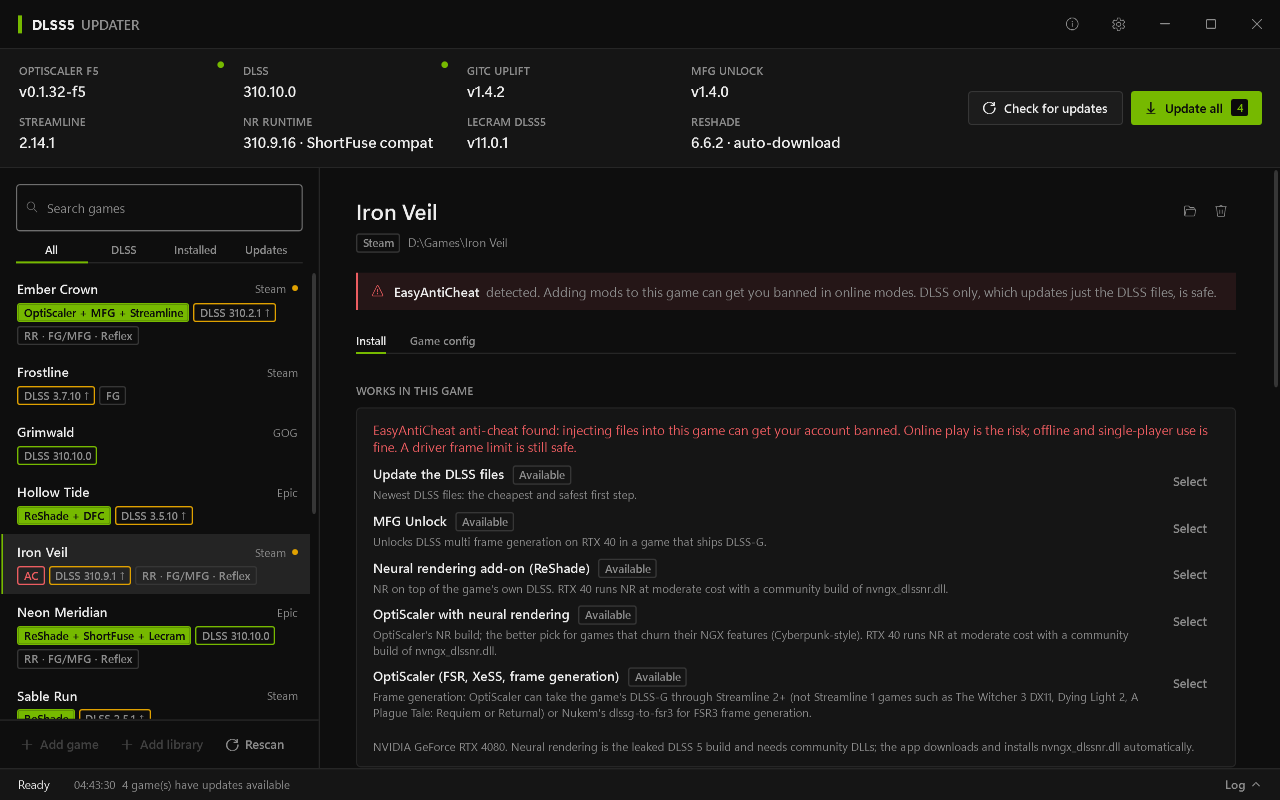
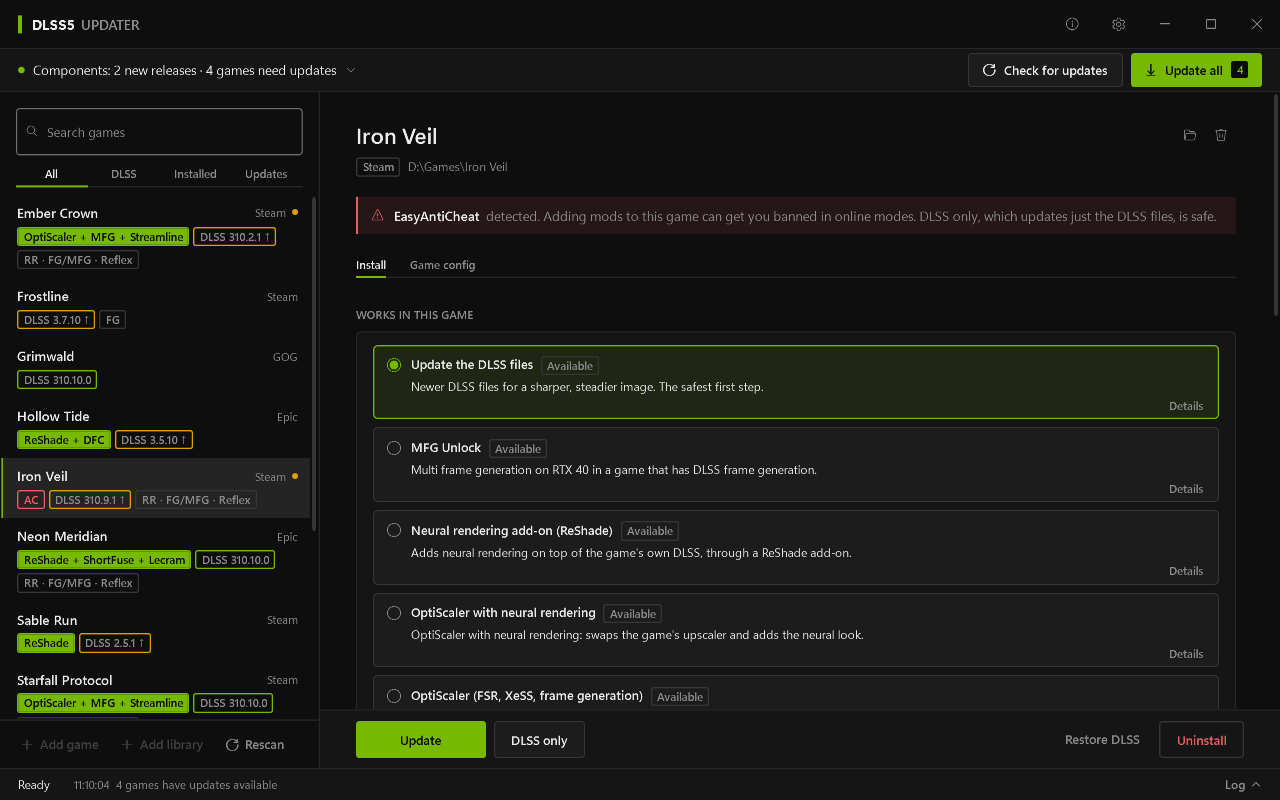
UX: Refresh README screenshots
Re-exported with --demo --screenshots after the UX changes (component
summary strip, option cards, sticky install footer, Settings split).
Alt text and the Settings tab names in the README follow the new UI.

diff --git a/README.md b/README.md
@@ -10,7 +10,7 @@ Formerly called DLSS Updater. Updating keeps your settings: the app moves `%Loca
 
 ## Screenshots
 
-![DLSS5 Updater with the game list on the left and one game selected. The top bar shows the latest version of each component next to Check for updates and Update all. The selected game shows what works in it, with a short reason for each option and a Select button.](docs/images/games.png)
+![DLSS5 Updater with the game list on the left and one game selected. A one-line summary of component updates sits next to Check for updates and Update all. The selected game shows what works in it as cards with a short explanation each, one card picked, and the Update and DLSS only buttons pinned below.](docs/images/games.png)
 
 The game list and one game's components. Badges show what each game has installed, and an arrow marks an outdated DLSS version.
 
@@ -91,7 +91,7 @@ Both versions keep settings and downloads in `%LocalAppData%\DLSS5Updater`, so y
 On a fresh install a short setup opens over the window: a welcome, the default install mode (OptiScaler F5 or OptiScaler-NR, or ReShade + add-ons with one NR add-on), and update and download choices. **Skip** or Esc on any step keeps the defaults; Enter goes to the next step. Nothing is written until you finish. People upgrading from 1.x don't see it, but **Settings → App → Run setup again** opens it any time.
 
 1. Start the app. It scans your game libraries and lists the games it finds. To add a game it missed, use **Add game** (one game folder) or **Add library** (a folder whose subfolders are games) at the bottom of the list.
-2. The files neural rendering needs (`nvngx_dlssnr.dll` and the NR add-ons) are downloaded and installed automatically when an install needs them. To use your own copy instead, import it under **Settings → Local components**. The app keeps them in `%LocalAppData%\DLSS5Updater\components`, several versions side by side, and you can pick a default.
+2. The files neural rendering needs (`nvngx_dlssnr.dll` and the NR add-ons) are downloaded and installed automatically when an install needs them. To use your own copy instead, import it under **Settings → Components**. The app keeps them in `%LocalAppData%\DLSS5Updater\components`, several versions side by side, and you can pick a default.
 3. ReShade is downloaded the first time an install needs it. Pick another build, channel or your own import under **Settings → ReShade add-ons**; each game can pick its own.
 
 ## Everyday use
@@ -117,7 +117,7 @@ Existing config files are handled in the way you choose under **Existing game co
 - The app only changes files inside the game's own folder, with two exceptions: an Unreal game's `Engine.ini` (for HDR mods and the frame cap, put back on remove) and the ReShade Vulkan layer in `C:\ProgramData\ReShade`, which you install from Settings. It checks its own records before restoring so a damaged record cannot make it touch files elsewhere.
 - Games that ship anti-cheat software are marked with an **AC** badge. Before installing a mod into one, the app shows a warning and asks you to confirm.
 
-![A game marked with EasyAntiCheat. A red banner warns that adding mods can get you banned in online modes and that DLSS only is safe.](docs/images/anti-cheat.png)
+![A game marked with EasyAntiCheat. A red banner warns that adding mods can get you banned in online modes and that DLSS only is safe. Update the DLSS files is picked.](docs/images/anti-cheat.png)
 
 **Do not use these mods in online games with anti-cheat.** Replacing or injecting DLL files can get your account banned, and many online modes refuse to start. The app recognises common anti-cheat systems (Easy Anti-Cheat, BattlEye, EA Javelin, GameGuard, XIGNCODE3, PunkBuster, Vanguard and others), but no check is complete. If you are unsure, do not install. **DLSS only** swaps the DLSS files without injecting anything and does not ask for this confirmation, but changing game files is never risk-free. For online games, use the DLSS override in the NVIDIA app instead.
 
@@ -136,7 +136,7 @@ Press **Uninstall** for that game to restore the original files. Then try the **
 The OptiScaler-NR fork publishes pre-releases only. Keep **Include pre-releases** turned on in Settings.
 
 **The app cannot reach GitHub.**
-It uses what it already downloaded and shows an **OFFLINE** label. Try again later with **Check for updates**. If GitHub limits how often the app may ask, a banner says until when. Adding a free GitHub token in **Settings → General** lifts that limit.
+It uses what it already downloaded and shows an **OFFLINE** label. Try again later with **Check for updates**. If GitHub limits how often the app may ask, a banner says until when. Adding a free GitHub token in **Settings → App** lifts that limit.
 
 **Where are the logs?**
 Open the log panel in the app. Data, cache and the log file are in `%LocalAppData%\DLSS5Updater`.
